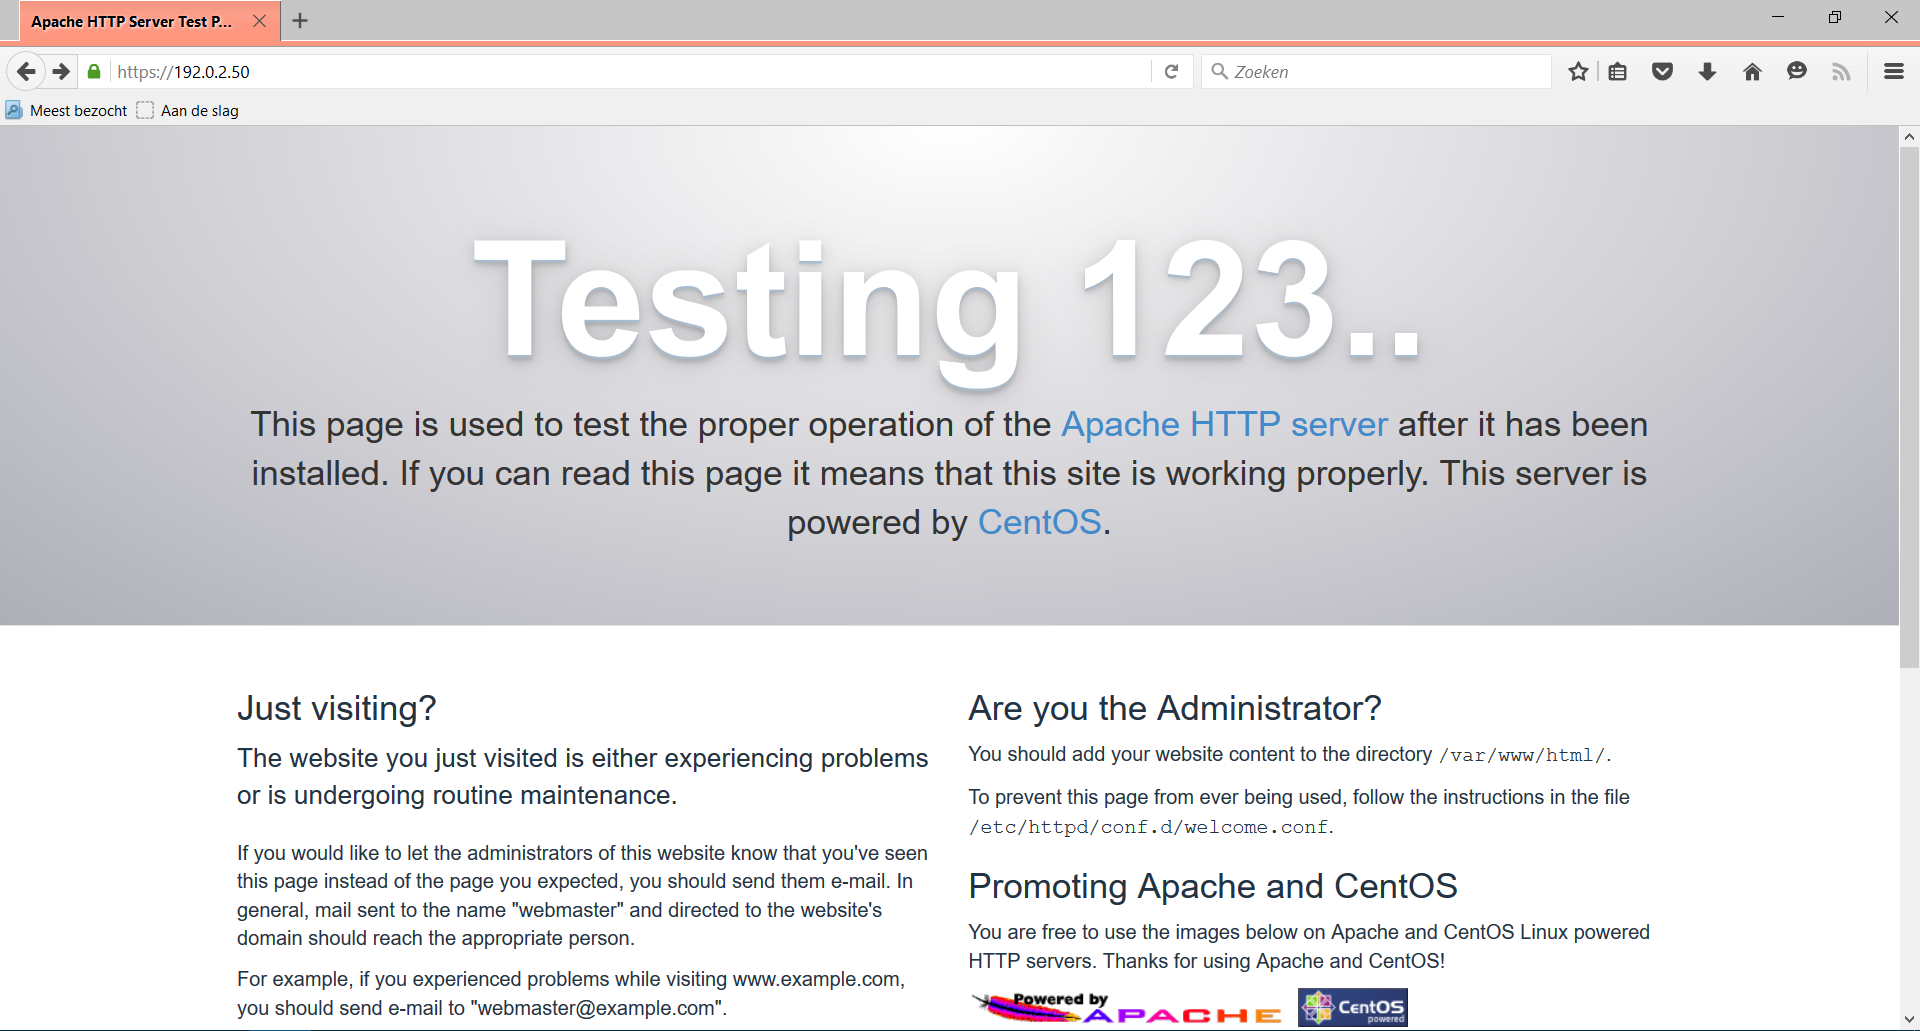
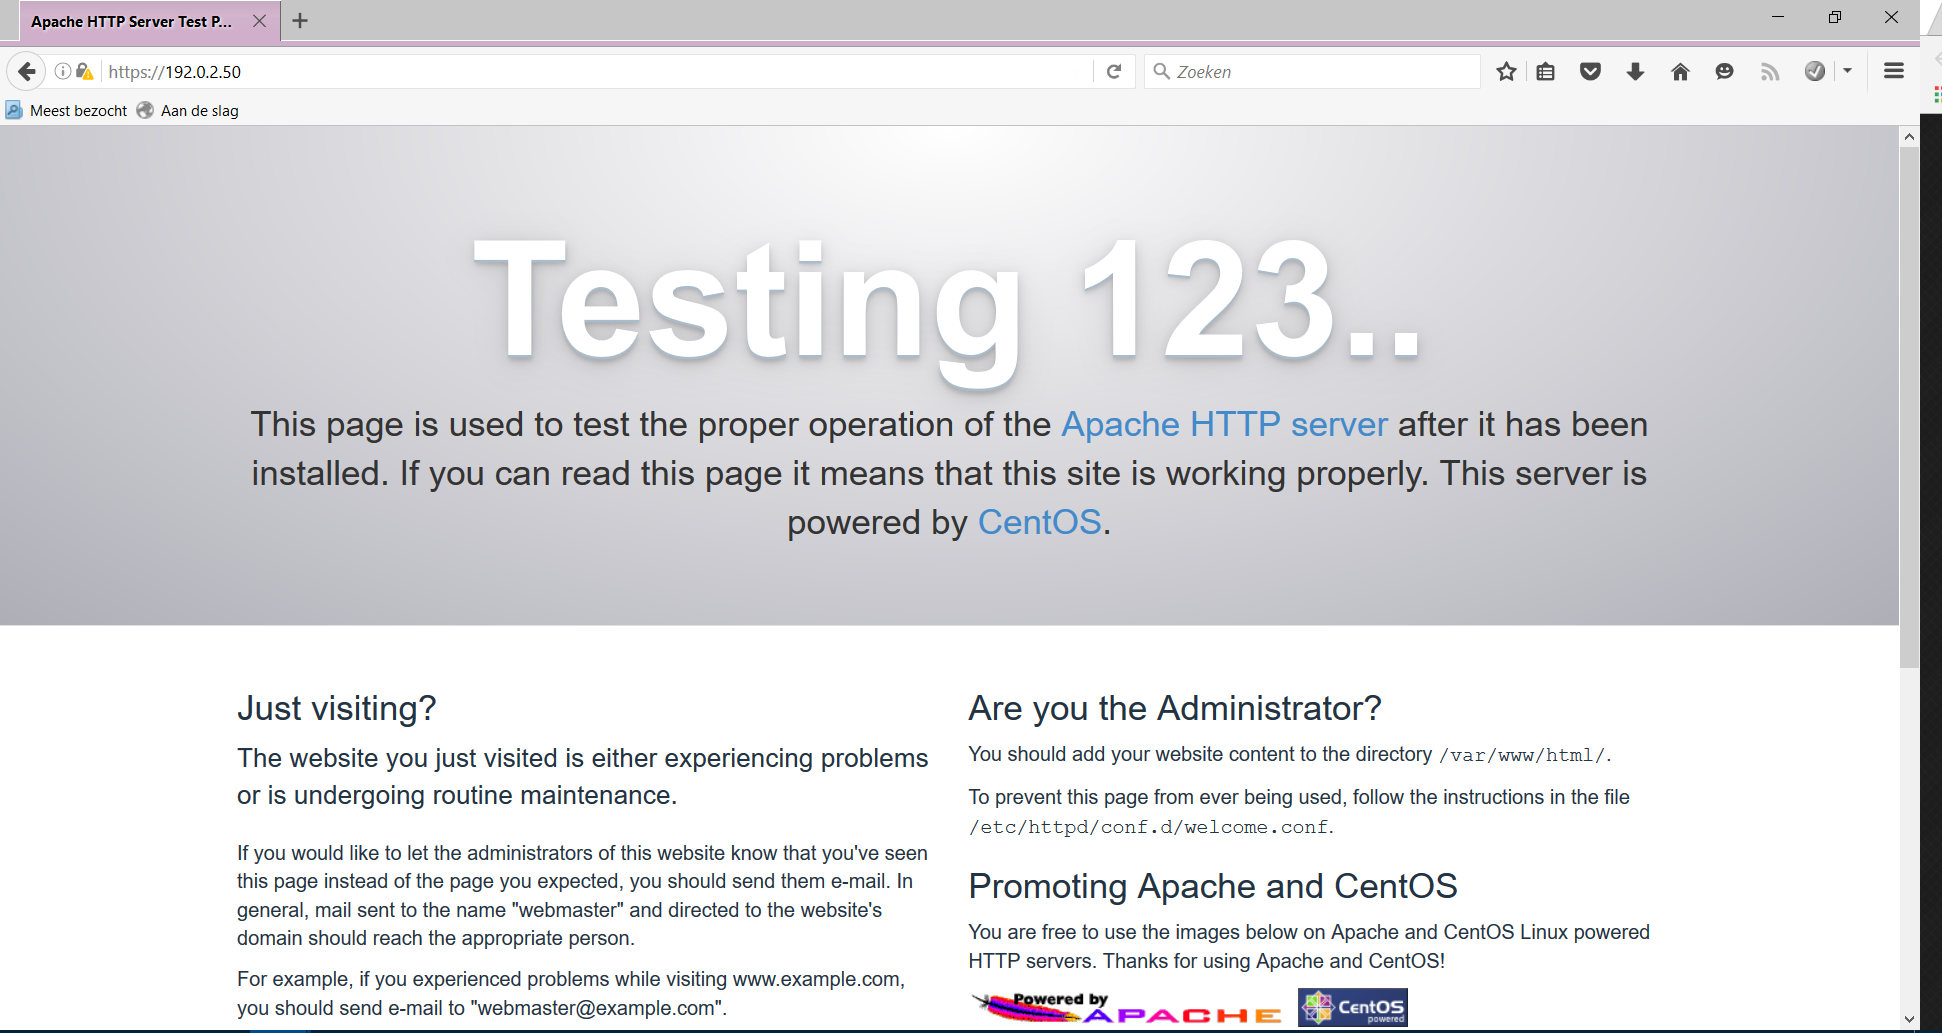
LAMP-report afgewerkt

Changed region(s): [[0.0, 0.0, 1.0, 1.0], [0.125, 0.2483, 0.875, 0.5276], [0.5625, 0.2173, 0.75, 0.3725]]

diff --git a/report/01-lamp report.md b/report/01-lamp report.md
@@ -40,6 +40,7 @@ Je zou volgende output moeten krijgen:
 - Het surfen vanop je hostsysteem naar 192.0.2.50 zou moeten lukken.
     + Typ 192.0.2.50 in je een webbrowser op je hostsysteem.
 - Je mag op bij het surfen naar 192.0.2.50 geen certificaatfout krijgen.
+    + **Opmerking:** het kan zijn dat je een waarschuwing (oranje driehoek bij slot) krijgt omdat het certificaat self-signed is.
 
 ## Procedure/Documentation
 
@@ -74,13 +75,11 @@ sudo restorecon -RvF /etc/pki
 7. Pas hierna de instellingen van `/etc/httpd/conf.d/ssl.conf` aan adhv onderstaande code.
   ![Git Bash](img/01/12.PNG)
 
-8. Voeg volgende code toe in `site.yml`:
+8. Voeg volgende code toe in `site.yml` om de certificaten te kopiëren naar de VM:
   ![Git Bash](img/01/6.PNG)
 
 9. Hierna kopiëren we (de inhoud van) alle certificaatbestanden naar directory `ansible/`.
   ![Git Bash](img/01/7.PNG)
-10. We passen ook de string "SomeOrganization" aan naar de waarde die we hebben ingegeven voor het genereren van de certificatiebestanden (hier 'Avalon Services'.
-    ![Git Bash](img/01/8.PNG)
 
 
 ## Test report
@@ -90,9 +89,10 @@ sudo restorecon -RvF /etc/pki
 - Alle testen slagen:
 ![Git Bash](img/01/11.PNG)
 
-- Als we naar `192.0.2.50` surfen dan krijgen we een groen slotje te zien. Het certificaat wordt erkend en toegepast.
+- Als we naar `192.0.2.50` surfen dan krijgen we een slotje (oranje) te zien. Het certificaat wordt erkend en toegepast.
 ![Git Bash](img/01/9.PNG)
 ![Git Bash](img/01/10.PNG)
+![Git Bash](img/01/13.PNG)
 
 ```
 ✗ Web traffic should pass through the firewall
@@ -106,8 +106,7 @@ sudo restorecon -RvF /etc/pki
 - Je moet ook zeker SELinux op `enforcing` hebben, anders wordt "Allow Apache to access db over network" niet uitgevoerd, en dan krijg je de boodschap `Error establishing a database connection`.   <!--Ook mag [wordpress_database_host niet op localhost staan](https://github.com/bertvv/ansible-role-wordpress/blob/master/tasks/config.yml)
   + Wordpress code moet voor de rest staan (?)-->
 - We hebben de certificaten getest via FireFox: we laten ook toe dat het certificaat toegepast wordt.
-
-
+    + We krijgen wel een oranje driehoek bij het slotje omdat het een self-signed certificate is.
 
 ## Resources
 
